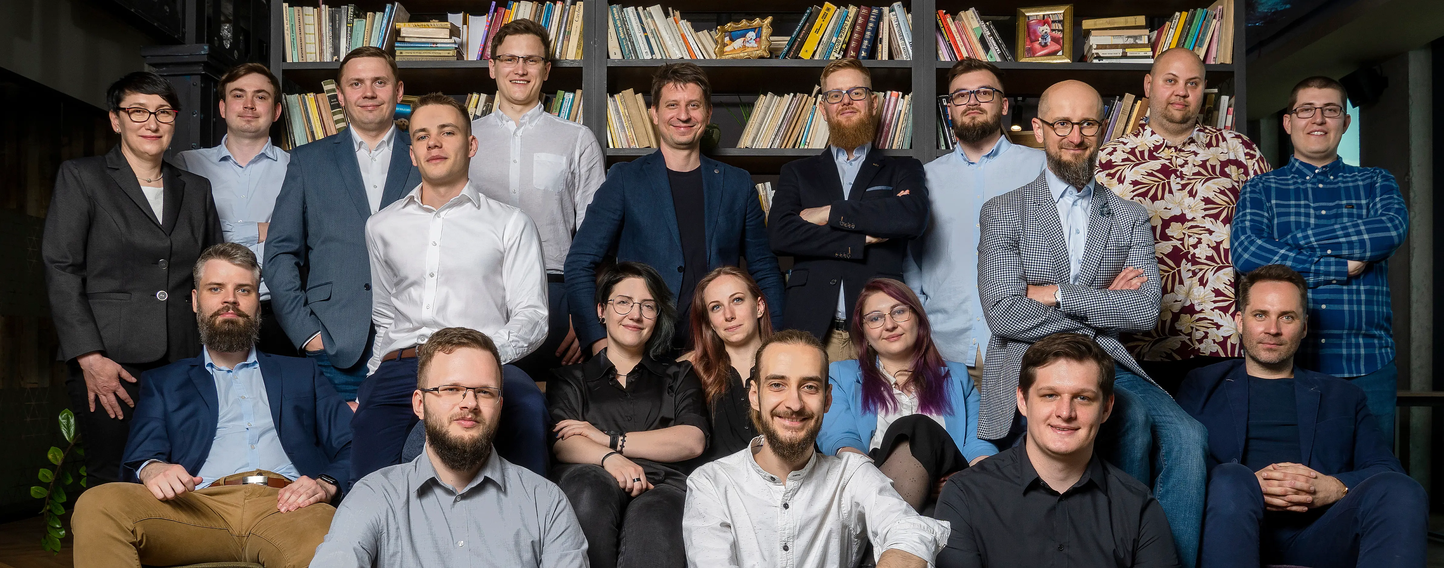
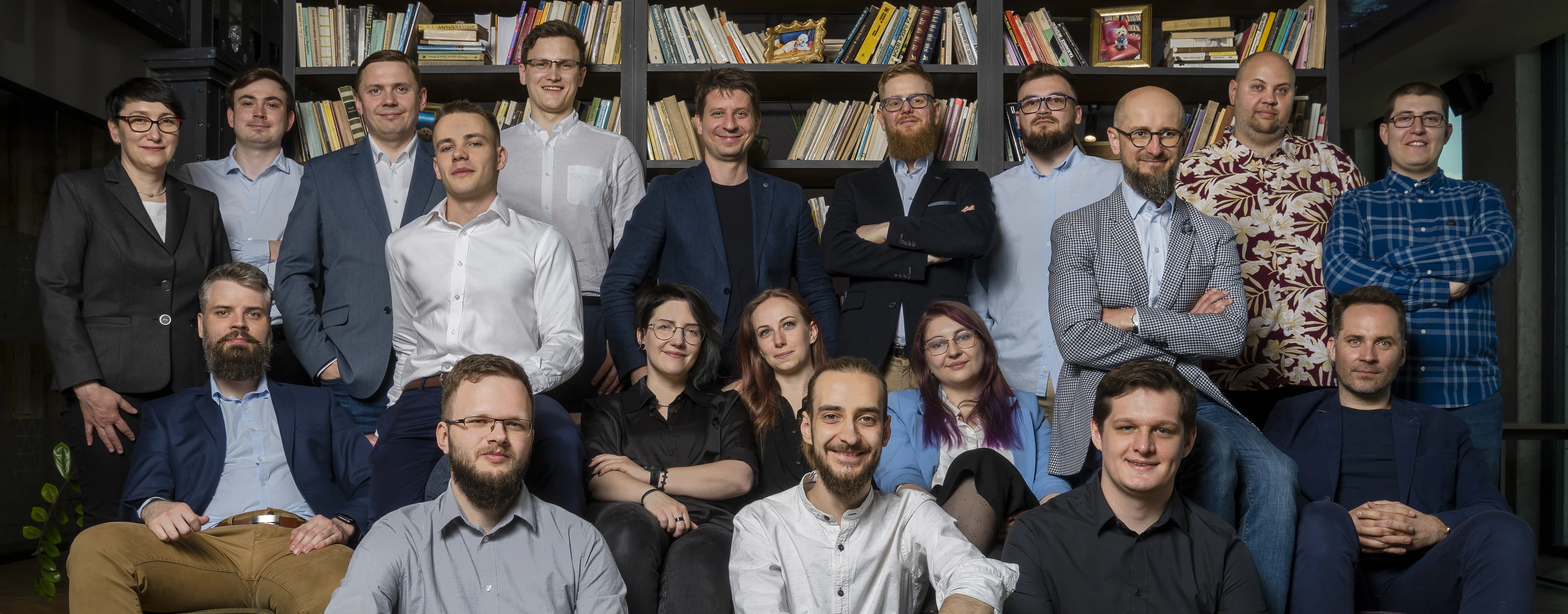
fix: adjust team photo
Modino-io/modino#902

diff --git a/css/main.css b/css/main.css
@@ -1274,13 +1274,29 @@
  * divested of its trade secrets, irrespective of what has
  * been deposited with any of the Copyright Offices.
  */
-.m-team {
+.m-team-header {
   margin-block-start: 6rem;
+  padding-block-end: 3rem;
 }
 @media (min-width: 800px) {
-  .m-team {
+  .m-team-header {
     margin-block-start: 4rem;
   }
+}
+.m-team-header .m-team-photo {
+  width: 100%;
+}
+@media (min-width: 1240px) {
+  .m-team-header .m-team-photo {
+    border-radius: 6px;
+  }
+}
+.m-team-header .m-section__content {
+  padding-inline: 0;
+}
+
+.m-team.m-section {
+  padding-block-start: 0;
 }
 .m-team.m-section {
   padding-inline: 0;
@@ -1420,25 +1436,6 @@
 .m-team .m-person-card__info a {
   display: inline-flex;
   margin-block-start: 0.5rem;
-}
-
-.m-team-photo {
-  max-height: 478px;
-  object-fit: cover;
-  object-position: 50% 15%;
-  width: 100%;
-  margin-block-end: 4rem;
-  margin-inline: -2rem;
-}
-@media (min-width: 1240px) {
-  .m-team-photo {
-    border-radius: 6px;
-  }
-}
-@media (min-width: 800px) {
-  .m-team-photo {
-    margin-block-end: 3rem;
-  }
 }
 
 .m-values__list {
@@ -1667,14 +1664,22 @@
   box-sizing: border-box;
   z-index: -1;
   left: 50%;
-  top: 50%;
+  top: 20%;
+  width: 1300px;
+  height: 885px;
   transform: translate(-50%, -50%);
-  width: 200%;
-  height: 200%;
   background-image: url("../img/decoration_blob.svg");
   background-repeat: no-repeat;
   background-position: center center;
   background-size: contain;
+}
+@media (min-width: 600px) {
+  .m-solution-hero__video-container::before {
+    left: 50%;
+    top: 25%;
+    width: 2780px;
+    height: 1185px;
+  }
 }
 .m-solution-hero__video-container iframe {
   margin-inline: auto;

diff --git a/scss/meet-the-team.scss b/scss/meet-the-team.scss
@@ -15,11 +15,30 @@
 @use "theme";
 @use "sass:map";
 
-.m-team {
+.m-team-header {
   margin-block-start: theme.spacing(48);
+  padding-block-end: theme.spacing(24);
 
   @media (min-width: 800px) {
     margin-block-start: theme.spacing(32);
+  }
+
+  .m-team-photo {
+    width: 100%;
+
+    @media (min-width: 1240px) {
+      border-radius: theme.$border-radius;
+    }
+  }
+
+  .m-section__content {
+    padding-inline: 0;
+  }
+}
+
+.m-team {
+  &.m-section {
+    padding-block-start: 0;
   }
 
   &.m-section {
@@ -194,23 +213,6 @@
         margin-block-start: theme.spacing(4);
       }
     }
-  }
-}
-
-.m-team-photo {
-  max-height: 478px;
-  object-fit: cover;
-  object-position: 50% 15%;
-  width: 100%;
-  margin-block-end: theme.spacing(32);
-  margin-inline: -#{theme.spacing(16)};
-
-  @media (min-width: 1240px) {
-    border-radius: theme.$border-radius;
-  }
-
-  @media (min-width: 800px) {
-    margin-block-end: theme.spacing(24);
   }
 }
 

diff --git a/meet-the-team.html b/meet-the-team.html
@@ -155,7 +155,7 @@
     </aside>
 
     <main class="m-main">
-      <section class="m-section m-team">
+      <section class="m-section m-team-header">
         <h2 class="m-section__header">Meet the team</h2>
         <div class="m-section__content">
           <img
@@ -163,6 +163,10 @@
             src="./img/people/team-photo.webp"
             class="m-team-photo"
           />
+        </div>
+      </section>
+      <section class="m-section m-team">
+        <div class="m-section__content">
           <menu class="m-team__menu">
             <ul class="m-team__list" role="tablist">
               <li class="m-team__list-item">

diff --git a/scss/solution.scss b/scss/solution.scss
@@ -123,15 +123,22 @@
       box-sizing: border-box;
       z-index: -1;
       left: 50%;
-      top: 50%;
+      top: 20%;
+      width: 1300px;
+      height: 885px;
       transform: translate(-50%, -50%);
-      width: 200%;
-      height: 200%;
 
       background-image: url("../img/decoration_blob.svg");
       background-repeat: no-repeat;
       background-position: center center;
       background-size: contain;
+
+      @media (min-width: 600px) {
+        left: 50%;
+        top: 25%;
+        width: 2780px;
+        height: 1185px;
+      }
     }
     iframe {
       margin-inline: auto;
